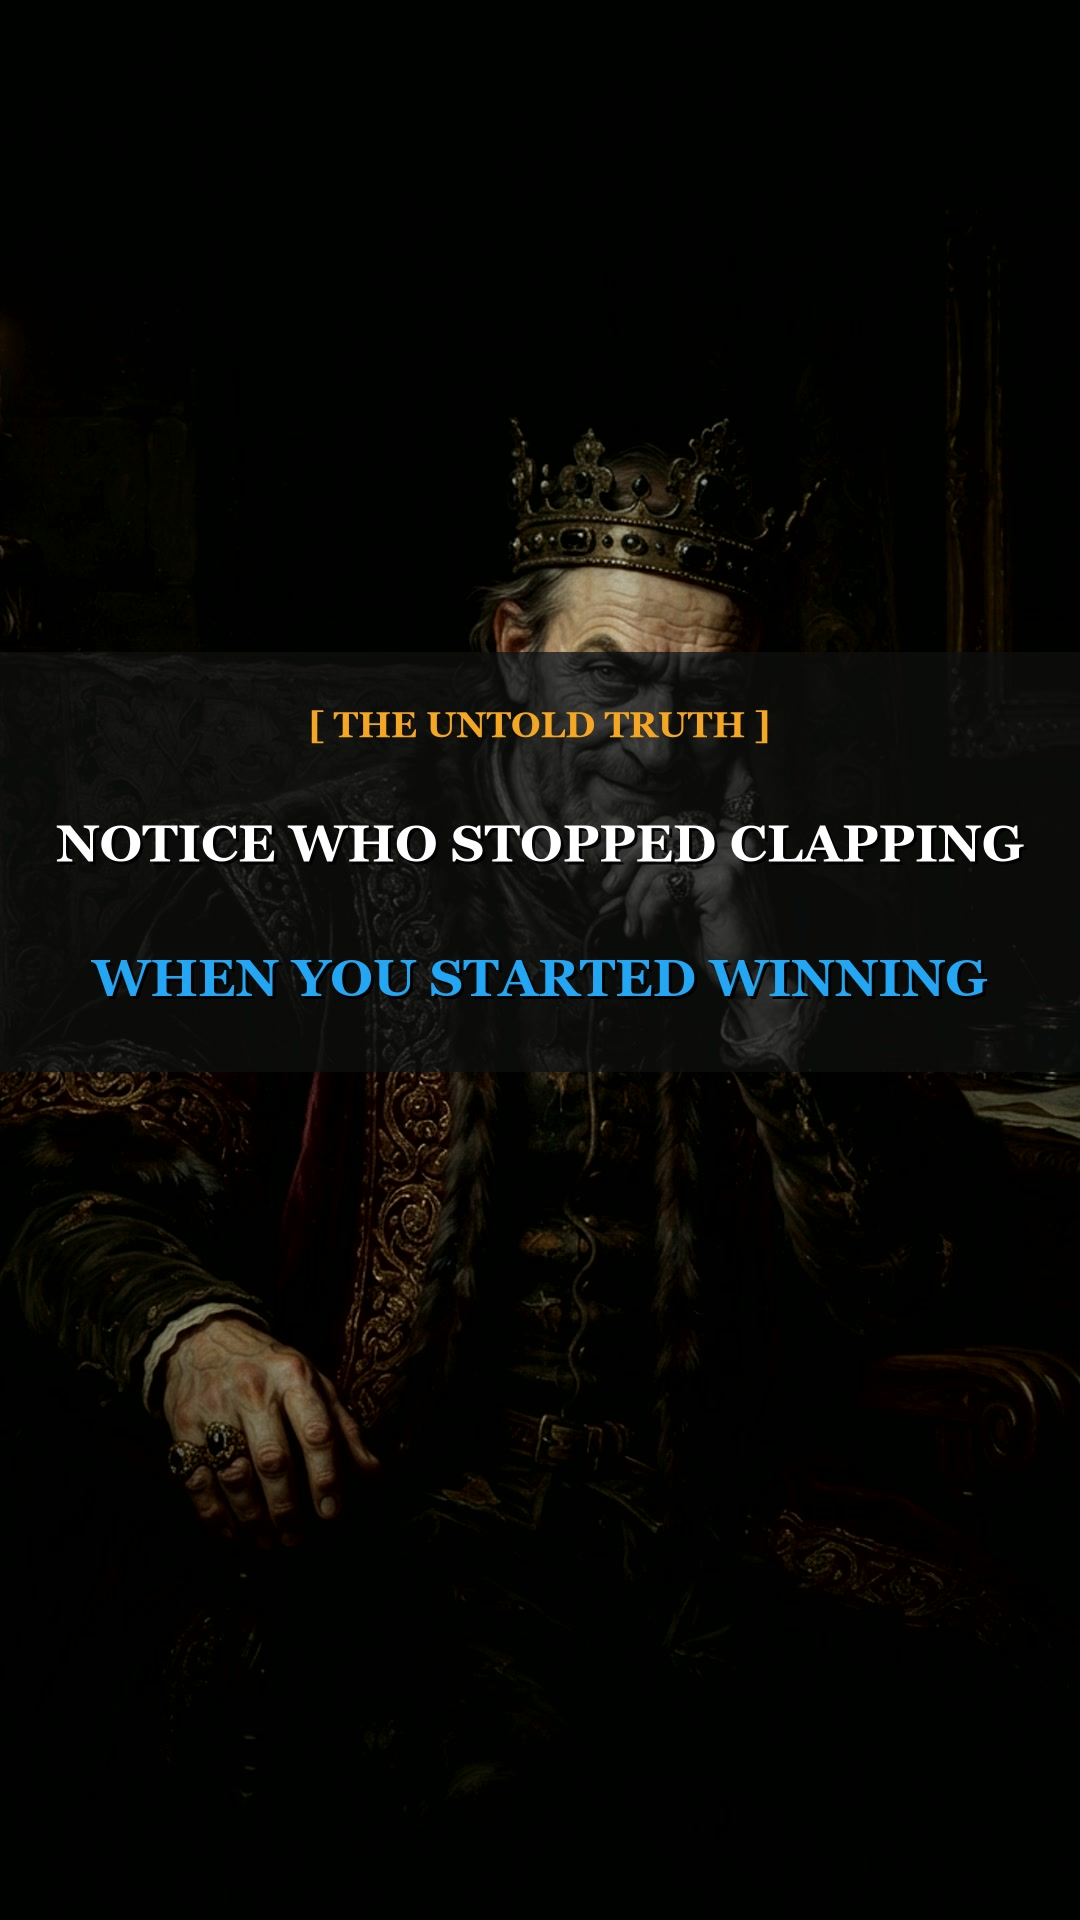
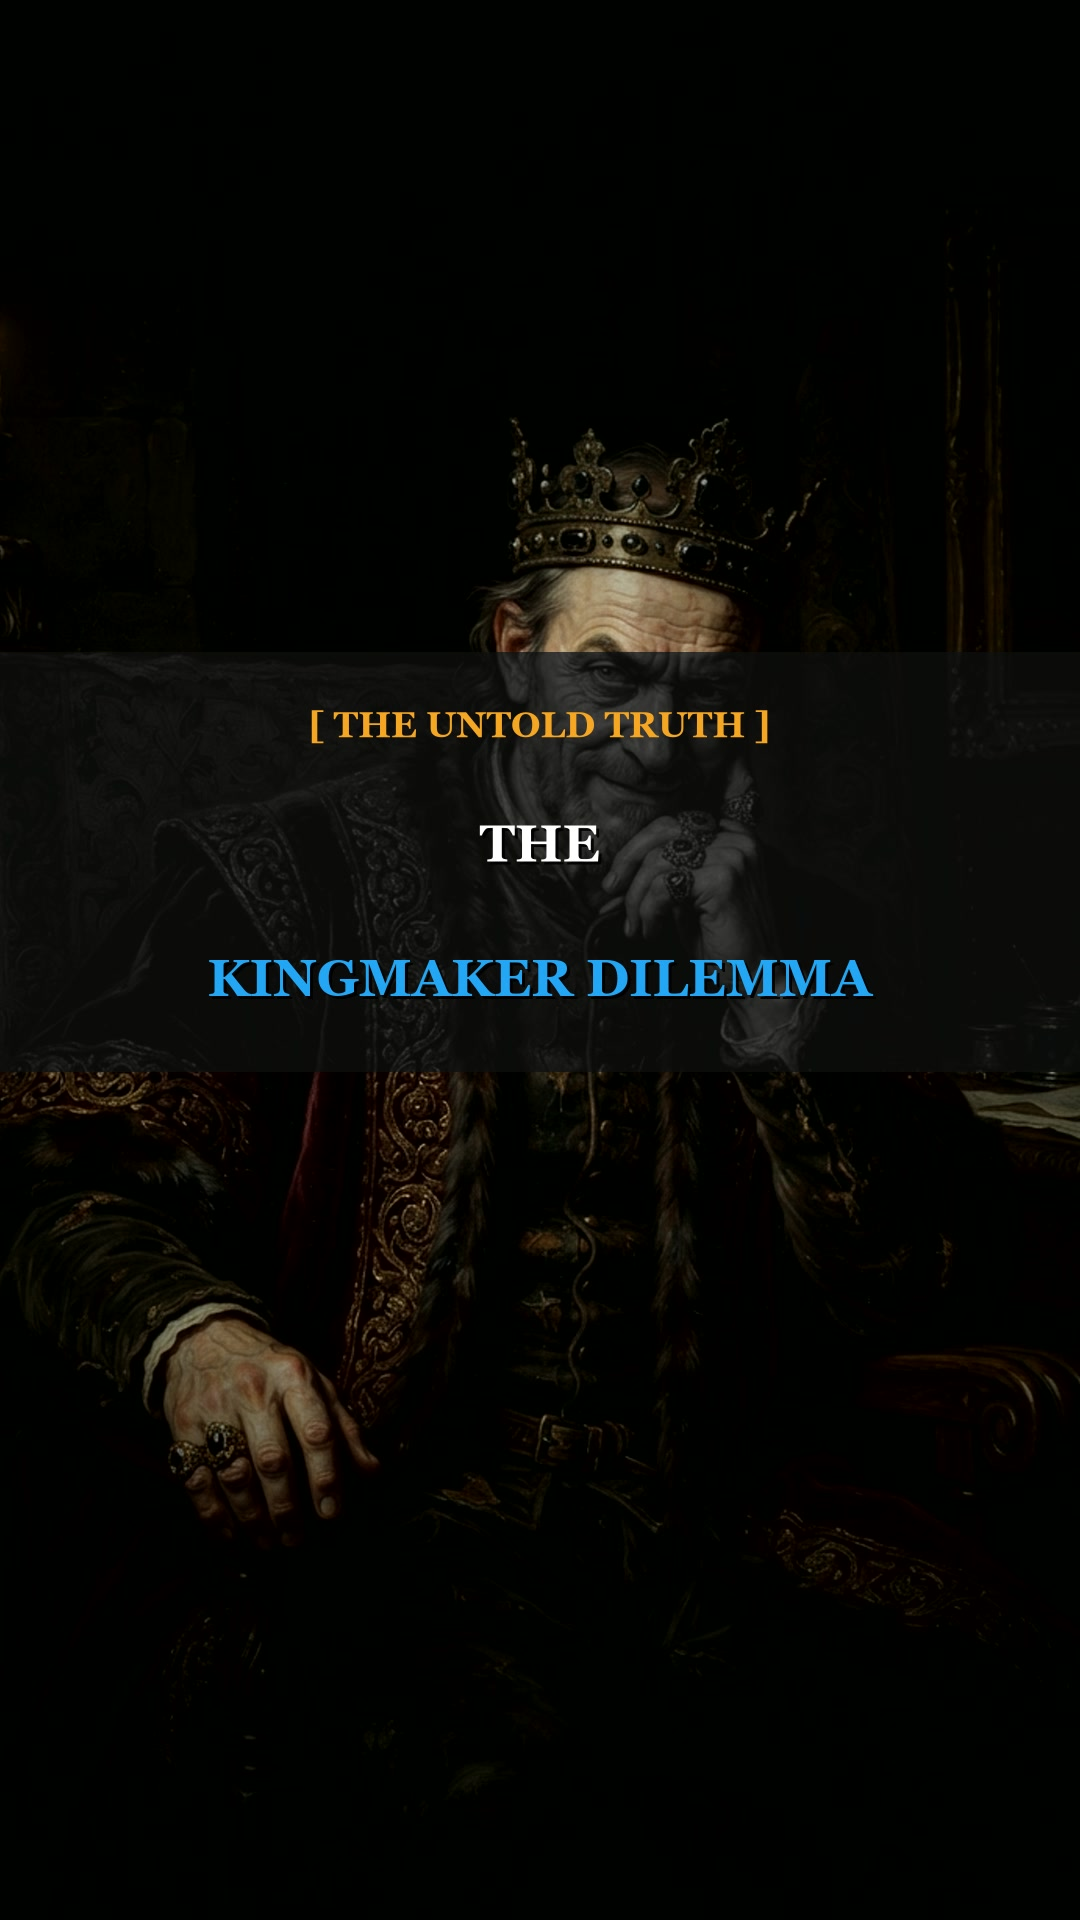
feat(videos): batch produce 6 master shorts across 3 personas (Untold Truth, Prof Layi, Sir Rogers)

diff --git a/preview_dashboard.html b/preview_dashboard.html
@@ -228,7 +228,7 @@
         <div class="brand-logo">[ THE UNTOLD <span>TRUTH</span> ]</div>
         <div class="header-stats">
             <div class="stat-badge">
-                <div class="stat-val">13</div>
+                <div class="stat-val">17</div>
                 <div class="stat-lbl">Videos Ready</div>
             </div>
             <div class="stat-badge">
@@ -304,6 +304,40 @@ Produced autonomously by SIR ROGERS Studio.
                 <div class="action-row">
                     <button class="btn btn-primary" onclick="copyText(`HOW SCAMMERS SCAMMED THE POLITICIANS | SIR ROGERS`)">📋 Copy Title</button>
                     <button class="btn btn-secondary" onclick="copyText(`Who could fall for some silly scam like the Nigerian prince fraud? Well, actually, some Nigerian politicians.
+
+Produced autonomously by SIR ROGERS Studio.
+
+#psychology #mindset #motivation #shorts #viral`)">📄 Copy Description</button>
+                    <button class="btn btn-secondary" onclick="copyText(``)">🏷 Copy Tags</button>
+                </div>
+            </div>
+        </div>
+        
+
+        <div class="video-card">
+            <div class="media-container">
+                <video controls poster="out/ready_to_publish/the_billionaire_airline_bet_thumbnail.jpg" preload="metadata">
+                    <source src="out/ready_to_publish/the_billionaire_airline_bet_master.mp4" type="video/mp4">
+                    Your browser does not support video.
+                </video>
+            </div>
+            <div class="card-body">
+                <div class="badge-row">
+                    <span class="badge brand">[ SIR ROGERS ]</span>
+                    <span class="badge duration">48.1s</span>
+                    <span class="badge time">2026-10-12 00:56:23</span>
+                </div>
+                <h3 class="video-title">THE BILLIONAIRE AIRLINE BET | SIR ROGERS</h3>
+                <p class="hook-quote">"Two billionaire friends who were rival airline owners agreed to a crazy bet with their egos on the line."</p>
+
+                <div class="meta-section">
+                    <label>Pinned Comment:</label>
+                    <div class="code-box"></div>
+                </div>
+
+                <div class="action-row">
+                    <button class="btn btn-primary" onclick="copyText(`THE BILLIONAIRE AIRLINE BET | SIR ROGERS`)">📋 Copy Title</button>
+                    <button class="btn btn-secondary" onclick="copyText(`Two billionaire friends who were rival airline owners agreed to a crazy bet with their egos on the line.
 
 Produced autonomously by SIR ROGERS Studio.
 
@@ -460,6 +494,40 @@ Subscribe to @TheUntoldTruth for daily unfiltered psychology, harsh truths, and 
 
         <div class="video-card">
             <div class="media-container">
+                <video controls poster="out/ready_to_publish/the_forty_three_million_naira_watch_thumbnail.jpg" preload="metadata">
+                    <source src="out/ready_to_publish/the_forty_three_million_naira_watch_master.mp4" type="video/mp4">
+                    Your browser does not support video.
+                </video>
+            </div>
+            <div class="card-body">
+                <div class="badge-row">
+                    <span class="badge brand">[ PROF LAYI ]</span>
+                    <span class="badge duration">34.2s</span>
+                    <span class="badge time">2026-10-12 00:54:31</span>
+                </div>
+                <h3 class="video-title">THE FORTY-THREE MILLION NAIRA WATCH | PROF LAYI</h3>
+                <p class="hook-quote">"Do not listen to the financial advice of unaccomplished men."</p>
+
+                <div class="meta-section">
+                    <label>Pinned Comment:</label>
+                    <div class="code-box"></div>
+                </div>
+
+                <div class="action-row">
+                    <button class="btn btn-primary" onclick="copyText(`THE FORTY-THREE MILLION NAIRA WATCH | PROF LAYI`)">📋 Copy Title</button>
+                    <button class="btn btn-secondary" onclick="copyText(`Do not listen to the financial advice of unaccomplished men.
+
+Produced autonomously by PROF LAYI Studio.
+
+#psychology #mindset #motivation #shorts #viral`)">📄 Copy Description</button>
+                    <button class="btn btn-secondary" onclick="copyText(``)">🏷 Copy Tags</button>
+                </div>
+            </div>
+        </div>
+        
+
+        <div class="video-card">
+            <div class="media-container">
                 <video controls poster="out/ready_to_publish/the_kingmaker_dilemma_thumbnail.jpg" preload="metadata">
                     <source src="out/ready_to_publish/the_kingmaker_dilemma_master.mp4" type="video/mp4">
                     Your browser does not support video.
@@ -468,27 +536,25 @@ Subscribe to @TheUntoldTruth for daily unfiltered psychology, harsh truths, and 
             <div class="card-body">
                 <div class="badge-row">
                     <span class="badge brand">[ THE UNTOLD TRUTH ]</span>
-                    <span class="badge duration">37.4s</span>
-                    <span class="badge time">2026-10-11 20:41:18</span>
+                    <span class="badge duration">37.6s</span>
+                    <span class="badge time">2026-10-12 00:49:45</span>
                 </div>
-                <h3 class="video-title">THE KINGMAKER DILEMMA | The Harsh Reality They Never Tell You #shorts</h3>
+                <h3 class="video-title">THE KINGMAKER DILEMMA | THE UNTOLD TRUTH</h3>
                 <p class="hook-quote">"Notice who stopped clapping when you started winning."</p>
 
                 <div class="meta-section">
                     <label>Pinned Comment:</label>
-                    <div class="code-box">What is a truth you learned too late in life? Drop it below. 👇</div>
+                    <div class="code-box"></div>
                 </div>
 
                 <div class="action-row">
-                    <button class="btn btn-primary" onclick="copyText(`THE KINGMAKER DILEMMA | The Harsh Reality They Never Tell You #shorts`)">📋 Copy Title</button>
+                    <button class="btn btn-primary" onclick="copyText(`THE KINGMAKER DILEMMA | THE UNTOLD TRUTH`)">📋 Copy Title</button>
                     <button class="btn btn-secondary" onclick="copyText(`Notice who stopped clapping when you started winning.
 
-Notice who stopped clapping when you started winning. People love supporting you when you are struggling because your pain reassures their superiority. They will happily play the mentor while you stay beneath them. The moment you ascend higher than the pedestal they built for you, their encouragement turns into whispered contempt. A Kingmaker rarely accepts becoming a subject. The knife that cuts the deepest is never held by a stranger. It is wielded by the ally who believed they owned your future. Build your empire with those who celebrate your throne, not those who demand rent for helping you lay the bricks.
+Produced autonomously by THE UNTOLD TRUTH Studio.
 
-Subscribe to @TheUntoldTruth for daily unfiltered psychology, harsh truths, and cynical wisdom.
-
-#TheUntoldTruth #DarkPsychology #Stoicism #HardTruths #Mindset #LifeLessons #Shorts`)">📄 Copy Description</button>
-                    <button class="btn btn-secondary" onclick="copyText(`#TheUntoldTruth #DarkPsychology #Stoicism #CynicalTruth #LifeLessons #Shorts #Viral`)">🏷 Copy Tags</button>
+#psychology #mindset #motivation #shorts #viral`)">📄 Copy Description</button>
+                    <button class="btn btn-secondary" onclick="copyText(``)">🏷 Copy Tags</button>
                 </div>
             </div>
         </div>
@@ -644,27 +710,93 @@ Subscribe to @TheUntoldTruth for daily unfiltered psychology, harsh truths, and 
             <div class="card-body">
                 <div class="badge-row">
                     <span class="badge brand">[ THE UNTOLD TRUTH ]</span>
-                    <span class="badge duration">32.5s</span>
-                    <span class="badge time">2026-10-11 13:29:55</span>
+                    <span class="badge duration">32.6s</span>
+                    <span class="badge time">2026-10-12 00:51:19</span>
                 </div>
-                <h3 class="video-title">THE POWER OF SILENCE | The Harsh Reality They Never Tell You #shorts</h3>
+                <h3 class="video-title">THE POWER OF SILENCE | THE UNTOLD TRUTH</h3>
                 <p class="hook-quote">"The loudest person in the room is always the most insecure."</p>
 
                 <div class="meta-section">
                     <label>Pinned Comment:</label>
-                    <div class="code-box">What is a truth you learned too late in life? Drop it below. 👇</div>
+                    <div class="code-box"></div>
                 </div>
 
                 <div class="action-row">
-                    <button class="btn btn-primary" onclick="copyText(`THE POWER OF SILENCE | The Harsh Reality They Never Tell You #shorts`)">📋 Copy Title</button>
+                    <button class="btn btn-primary" onclick="copyText(`THE POWER OF SILENCE | THE UNTOLD TRUTH`)">📋 Copy Title</button>
                     <button class="btn btn-secondary" onclick="copyText(`The loudest person in the room is always the most insecure.
 
-The loudest person in the room is always the most insecure. Weakness announces itself with noise, bragging, and desperate demands for applause. True power sits in the corner, observing everything and revealing nothing. When you speak too much, you hand your enemies the blueprint to destroy you. Information given away for free is leverage you will never regain. The master strategist never explains his moves. He lets the result speak while his competitors scramble to understand what hit them. Learn to move in absolute silence. Surprise is the ultimate weapon.
+Produced autonomously by THE UNTOLD TRUTH Studio.
 
-Subscribe to @TheUntoldTruth for daily unfiltered psychology, harsh truths, and cynical wisdom.
+#psychology #mindset #motivation #shorts #viral`)">📄 Copy Description</button>
+                    <button class="btn btn-secondary" onclick="copyText(``)">🏷 Copy Tags</button>
+                </div>
+            </div>
+        </div>
+        
 
-#TheUntoldTruth #DarkPsychology #Stoicism #HardTruths #Mindset #LifeLessons #Shorts`)">📄 Copy Description</button>
-                    <button class="btn btn-secondary" onclick="copyText(`#TheUntoldTruth #DarkPsychology #Stoicism #CynicalTruth #LifeLessons #Shorts #Viral`)">🏷 Copy Tags</button>
+        <div class="video-card">
+            <div class="media-container">
+                <video controls poster="out/ready_to_publish/the_proof_of_knowledge_thumbnail.jpg" preload="metadata">
+                    <source src="out/ready_to_publish/the_proof_of_knowledge_master.mp4" type="video/mp4">
+                    Your browser does not support video.
+                </video>
+            </div>
+            <div class="card-body">
+                <div class="badge-row">
+                    <span class="badge brand">[ PROF LAYI ]</span>
+                    <span class="badge duration">42.8s</span>
+                    <span class="badge time">2026-10-12 00:52:59</span>
+                </div>
+                <h3 class="video-title">THE PROOF OF KNOWLEDGE | PROF LAYI</h3>
+                <p class="hook-quote">"The proof of knowledge is demonstration. Keep quiet and let that sink into your marrow."</p>
+
+                <div class="meta-section">
+                    <label>Pinned Comment:</label>
+                    <div class="code-box"></div>
+                </div>
+
+                <div class="action-row">
+                    <button class="btn btn-primary" onclick="copyText(`THE PROOF OF KNOWLEDGE | PROF LAYI`)">📋 Copy Title</button>
+                    <button class="btn btn-secondary" onclick="copyText(`The proof of knowledge is demonstration. Keep quiet and let that sink into your marrow.
+
+Produced autonomously by PROF LAYI Studio.
+
+#psychology #mindset #motivation #shorts #viral`)">📄 Copy Description</button>
+                    <button class="btn btn-secondary" onclick="copyText(``)">🏷 Copy Tags</button>
+                </div>
+            </div>
+        </div>
+        
+
+        <div class="video-card">
+            <div class="media-container">
+                <video controls poster="out/ready_to_publish/the_street_trivia_trap_thumbnail.jpg" preload="metadata">
+                    <source src="out/ready_to_publish/the_street_trivia_trap_master.mp4" type="video/mp4">
+                    Your browser does not support video.
+                </video>
+            </div>
+            <div class="card-body">
+                <div class="badge-row">
+                    <span class="badge brand">[ SIR ROGERS ]</span>
+                    <span class="badge duration">42.5s</span>
+                    <span class="badge time">2026-10-12 00:58:02</span>
+                </div>
+                <h3 class="video-title">THE STREET TRIVIA TRAP | SIR ROGERS</h3>
+                <p class="hook-quote">"If an influencer comes up to you in the street offering five bucks to answer trivia, don't answer too fast. You might be committing a felony."</p>
+
+                <div class="meta-section">
+                    <label>Pinned Comment:</label>
+                    <div class="code-box"></div>
+                </div>
+
+                <div class="action-row">
+                    <button class="btn btn-primary" onclick="copyText(`THE STREET TRIVIA TRAP | SIR ROGERS`)">📋 Copy Title</button>
+                    <button class="btn btn-secondary" onclick="copyText(`If an influencer comes up to you in the street offering five bucks to answer trivia, don't answer too fast. You might be committing a felony.
+
+Produced autonomously by SIR ROGERS Studio.
+
+#psychology #mindset #motivation #shorts #viral`)">📄 Copy Description</button>
+                    <button class="btn btn-secondary" onclick="copyText(``)">🏷 Copy Tags</button>
                 </div>
             </div>
         </div>
